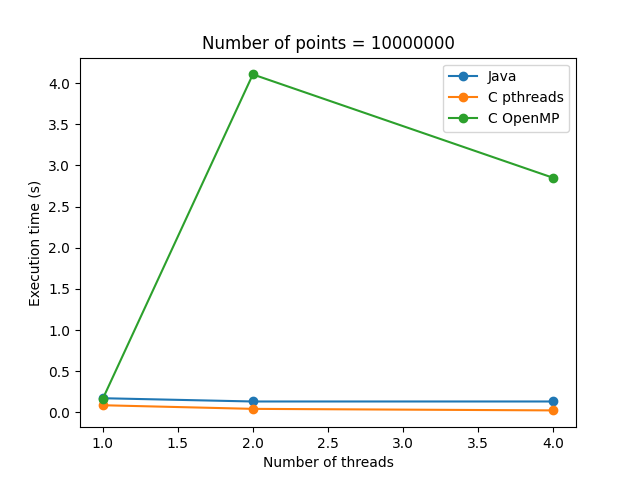
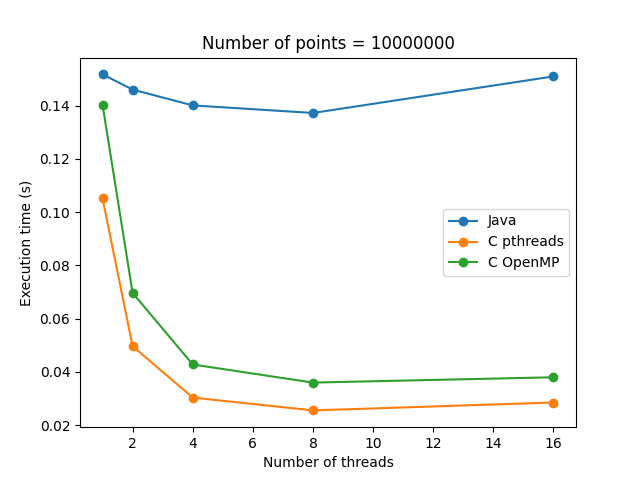
OpenMP ffaster than java; Need  to run profiler

diff --git a/p03-montecarlo/main.c b/p03-montecarlo/main.c
@@ -41,12 +41,13 @@ int main(int argc, char *argv[]) {
     double M = 0;
 
     double x, y;
-    int i;
+    unsigned int seed = 0;
+    long points = N_POINTS / N_THREADS;
     omp_set_num_threads(N_THREADS);
-    #pragma omp parallel for shared(N_POINTS) private(x, y, i) reduction(+:M) default(none)
-    for(i = 0; i < N_POINTS; i++){
-        x = (double) rand() / ((double) RAND_MAX / RADIUS);
-        y = (double) rand() / ((double) RAND_MAX / RADIUS);
+    #pragma omp parallel for firstprivate(N_POINTS) private(x, y, seed) reduction(+:M) default(none)
+    for(int i = 0; i < N_POINTS; i++){
+        x = (double) rand_r(&seed) / ((double) RAND_MAX / RADIUS);
+        y = (double) rand_r(&seed) / ((double) RAND_MAX / RADIUS);
         if (x * x + y * y <= 1) M++;
     }
 

diff --git a/scripts/run-montecarlo.py b/scripts/run-montecarlo.py
@@ -6,8 +6,8 @@ import pandas
 import matplotlib.pyplot as plt
 from progress.bar import Bar
 
-ITERATIONS = [10000000]#, 100000000, 1000000000, 10000000000]
-THREADS = [1, 2, 4]#, 8, 16]
+ITERATIONS = [10000000, 100000000, 1000000000, 10000000000]
+THREADS = [1, 2, 4, 8, 16]
 N_RUNS = 5
 
 OUT_DIR = "../data/montecarlo"
